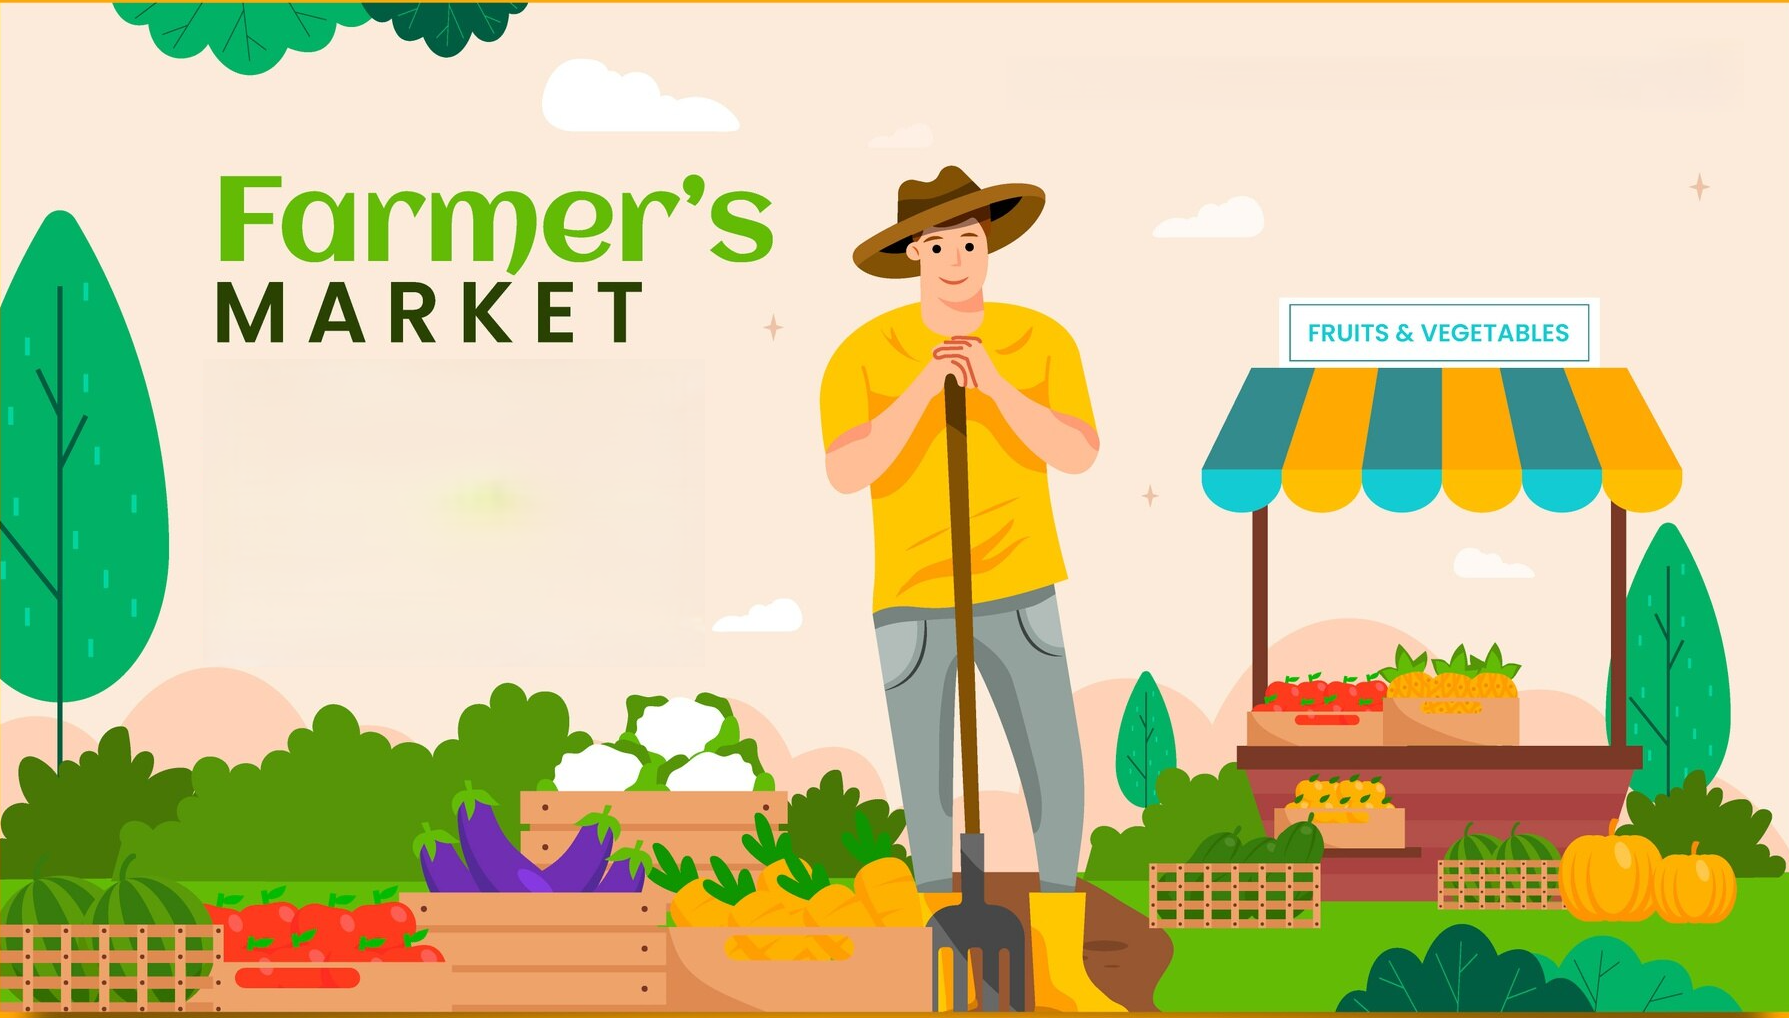
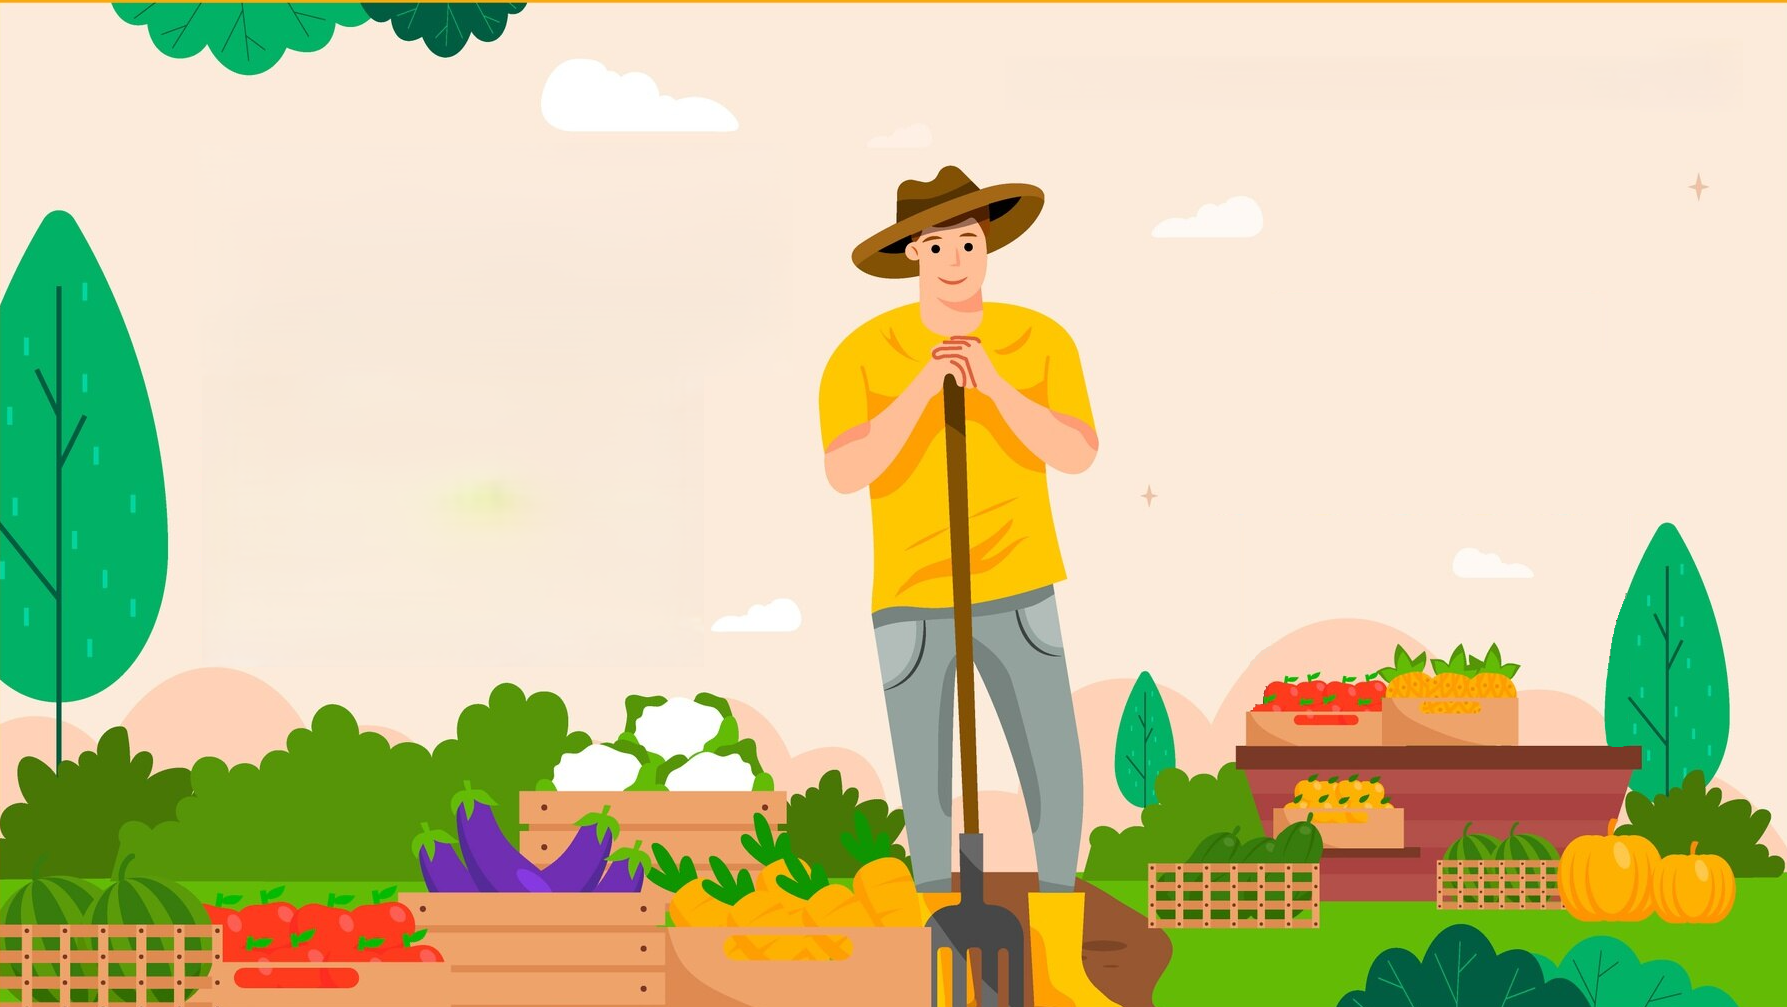
change the back ground image

diff --git a/login.html b/login.html
@@ -1,34 +1,36 @@
 <!DOCTYPE html>
 <html>
-    <head>
-        <title>Login page</title>
-        <link rel="stylesheet" type="text/css" href="style.css">
-    </head>
-    <body>
+<head>
+    <title>Login page</title>
+    <link rel="stylesheet" type="text/css" href="style.css">
+</head>
+<body>
     <header>
         <div class="header">
             <h1>Login page</h1>
         </div>
     </header>
-       <main>
-          <p> Welcome To Farmers Market</p>
-        </main>
-        <div class = "container">
-            <form>
-                <input type="text" name="username" placeholder="Username/Email">
-                <input type ="password" name ="password " placeholder= "Password">
-                <select>
-                    <option value="0" class="lang">Select language</option>
-                    <option value ="1">English</option>
-                    <option value ="2">Hindi</option>
-                    <option value ="3">Marathi</option>
-                 </select>
-                    <button type ="submit">Login</button>
-            </form>
-            <div class="options">
-             <a href="D:\my code\HTML\forgot.html">Forgot password</a>
-             <a href="D:\my code\HTML\sigh.html">Sign in</a>
-            </div>
+    <main>
+        <p>Farmer's</p>
+        <p1>Market</p1>
+        <p2>Welcome To Farmers Market</p2>
+    </main>
+    <div class="container">
+        <form>
+            <input type="text" name="username" placeholder="Username/Email">
+            <input type="password" name="password" placeholder="Password">
+            <select>
+                <option value="0" class="lang">Select language</option>
+                <option value="1">English</option>
+                <option value="2">Hindi</option>
+                <option value="3">Marathi</option>
+            </select>
+            <button type="submit">Login</button>
+        </form>
+        <div class="options">
+            <a href="D:\my code\HTML\forgot.html">Forgot password</a>
+            <a href="D:\my code\HTML\sigh.html">Sign in</a>
         </div>
-    </body>
+    </div>
+</body>
 </html>
